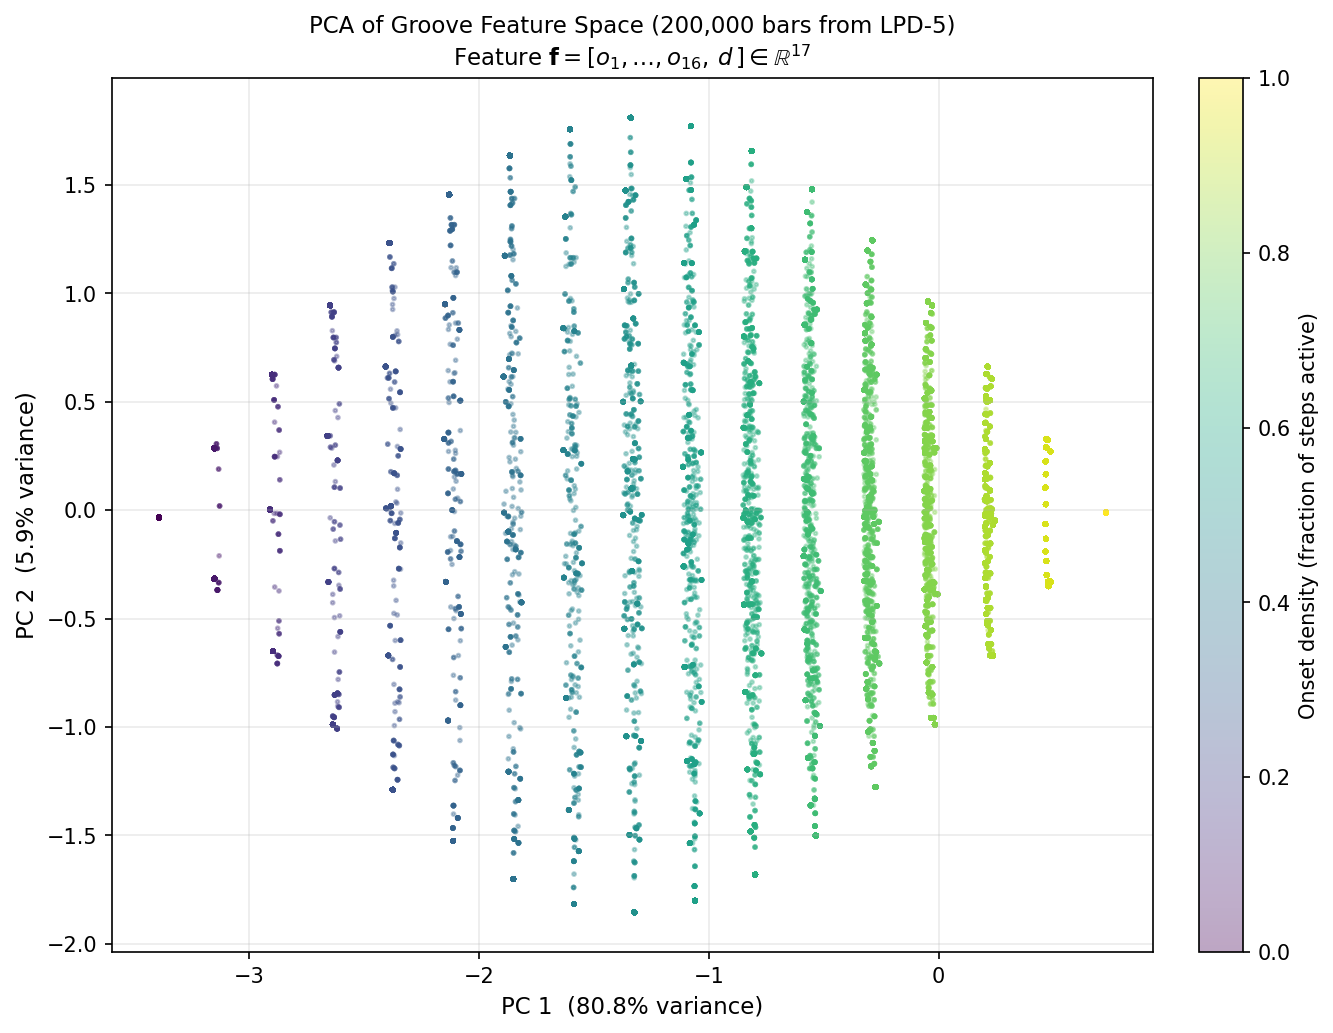
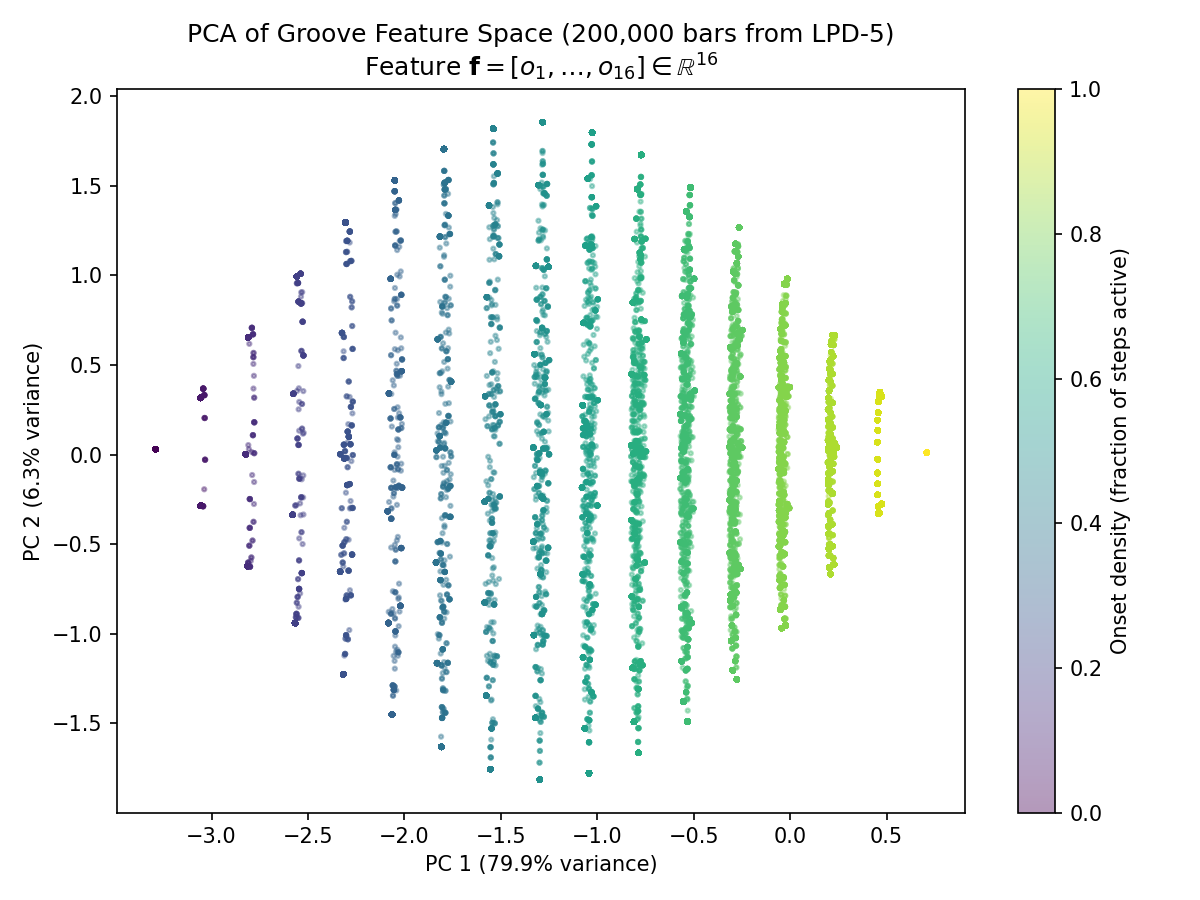
16-dim groove

diff --git a/data/lpd/pca_groove.py b/data/lpd/pca_groove.py
@@ -7,6 +7,7 @@ from data.lpd import storage as lpd_storage
 
 
 SAMPLE_SIZE = 200000
+SAVE_PATH = "report/figures/groove_pca.png"
 
 
 if __name__ == "__main__":
@@ -17,14 +18,16 @@ if __name__ == "__main__":
     # sklearn stores the fitted dataset here
     X = nn._fit_X
 
-    print("Original feature matrix:", X.shape)
+    print("Feature matrix:", X.shape)
 
     # --- random sampling ---
     if len(X) > SAMPLE_SIZE:
         idx = np.random.choice(len(X), SAMPLE_SIZE, replace=False)
         X = X[idx]
 
-    print("Sampled matrix:", X.shape)
+    print("Sampled:", X.shape)
+
+    density = X.mean(axis=1)
 
     # --- PCA ---
     pca = PCA(n_components=6)
@@ -32,7 +35,11 @@ if __name__ == "__main__":
 
     print("\nFirst 6 explained variances:")
     for i, v in enumerate(pca.explained_variance_ratio_):
-        print(f"PC{i+1}: {v:.6f}")
+        print(f"PC{i+1}: {v:.4f}  ({v*100:.1f}%)")
+
+    print("\nPC2 loadings (per onset position):")
+    for i, w in enumerate(pca.components_[1]):
+        print(f"  step {i:2d}: {w:+.4f}")
 
     # --- 2D Plot ---
     fig, ax = plt.subplots(figsize=(8, 6))
@@ -40,13 +47,17 @@ if __name__ == "__main__":
     scatter = ax.scatter(
         X_pca[:, 0],
         X_pca[:, 1],
+        c=density,
+        cmap="viridis",
         s=4,
         alpha=0.4
     )
+    plt.colorbar(scatter, ax=ax, label="Onset density (fraction of steps active)")
 
-    ax.set_xlabel("PC1")
-    ax.set_ylabel("PC2")
-    ax.set_title("2D PCA of Groove Feature Space")
+    ax.set_xlabel(f"PC 1 ({pca.explained_variance_ratio_[0]*100:.1f}% variance)")
+    ax.set_ylabel(f"PC 2 ({pca.explained_variance_ratio_[1]*100:.1f}% variance)")
+    ax.set_title(f"PCA of Groove Feature Space ({SAMPLE_SIZE:,} bars from LPD-5)\n"
+                 r"Feature $\mathbf{f} = [o_1, \ldots, o_{16}] \in \mathbb{R}^{16}$")
 
     # --- click annotation ---
     cursor = mplcursors.cursor(scatter, hover=False)
@@ -55,16 +66,10 @@ if __name__ == "__main__":
     def on_add(sel):
         i = sel.index
         vec = X[i]
-
-        # first 16 binary features
-        binary_indices = np.where(vec[:16] == 1)[0].tolist()
-
-        # 17th feature
-        d16 = vec[16]
-
-        text = f"{binary_indices} {d16:.3f}"
-
-        sel.annotation.set_text(text)
+        active = np.where(vec > 0)[0].tolist()
+        sel.annotation.set_text(f"{active}  d={density[i]:.3f}")
 
     plt.tight_layout()
+    plt.savefig(SAVE_PATH, dpi=150)
+    print(f"\nSaved to {SAVE_PATH}")
     plt.show()

diff --git a/data/lpd/extract.py b/data/lpd/extract.py
@@ -9,9 +9,7 @@ MAX_POLY = 8
 
 
 def get_groove(melody):
-    onsets = (melody != -1).astype(np.int8)
-    density = np.array([onsets.mean()], dtype=np.float32)
-    return np.concatenate([onsets, density])
+    return (melody != -1).astype(np.float32)
 
 
 def encode_polyphonic_fast(pr16, start, bar_steps, max_notes=8):

diff --git a/accompaniment/nn.py b/accompaniment/nn.py
@@ -8,7 +8,7 @@ def find_similar_loops(melody, top_k=10):
     Returns nearest neighbour indices + distances for the melody groove.
     """
     query = get_groove(melody)
-    assert len(query) == STEPS_PER_BAR + 1
+    assert len(query) == STEPS_PER_BAR
     dist, idx = NN.kneighbors(query.reshape(1, -1), n_neighbors=top_k)
     return idx[0], dist[0]
 

diff --git a/report/scripts/benchmark_latency.py b/report/scripts/benchmark_latency.py
@@ -212,7 +212,7 @@ if __name__ == "__main__":
     print_stats("pYIN transcription  @ 100 BPM (one beat = 600 ms audio)", s_pyin)
     print_stats("AR Transformer inference (32-beat context)",               s_ar)
     print_stats("CRF Viterbi inference (one bar)",                          s_crf)
-    print_stats("k-NN groove query (k=10, 17-dim)",                        s_knn)
+    print_stats("k-NN groove query (k=10, 16-dim)",                        s_knn)
     print_stats("Loop sampling (temperature softmax)",                      s_loop)
 
     e2e_ar  = compute_e2e(s_pyin, s_ar,  s_knn, s_loop)

diff --git a/README.md b/README.md
@@ -18,7 +18,7 @@ Predicts the most likely chord sequence based on the temporal relationship betwe
 
 ### 3. Rhythm/Symphony Generation
 Instead of simple block chords, the system generates dynamic, multi-instrument arrangements.
-- **Groove Retrieval**: Uses a **K-Nearest Neighbors (k-NN)** approach to match the current melody's rhythm (onset density and pattern) with a massive database of human-composed loops.
+- **Groove Retrieval**: Uses a **K-Nearest Neighbors (k-NN)** approach to match the current melody's 16-dimensional onset pattern with a massive database of human-composed loops.
 - **Tone & Harmony**: The retrieved patterns from the **LPD-5 (Lakh Pianoroll Dataset)** are "snapped" to the predicted chords in real-time.
 - **Synthesis**: High-quality audio rendering via **FluidSynth** using curated soundfonts for Drums, Bass, Piano, and Guitar.
 
@@ -39,7 +39,7 @@ Our chord estimation models are trained on a diverse corpus of lead sheets and l
 ### Rhythm/Symphony Maps
 The rhythm/symphony engine is powered by a pre-processed mapping of the **LPD-17 / LPD-5 (Lakh Pianoroll Dataset)**.
 - **Extraction**: `data/lpd/extract.py` processes thousands of MIDI files to build a searchable "groove" index.
-- **Storage**: The index lives in two files: `data/lpd/nn.joblib` (the shared k-NN model) and `data/lpd/loops.npz` (zlib-compressed `drums`/`piano`/`guitar`/`bass` arrays, row-aligned to the k-NN's fit data). All reads and writes go through `data/lpd/storage.py`, which exposes a small `load`/`dump` API keyed by instrument name.
+- **Storage**: The index lives in two files: `data/lpd/nn.joblib` (the shared k-NN model fitted on 16-dim onset features) and `data/lpd/loops.npz` (zlib-compressed `drums`/`piano`/`guitar`/`bass` arrays, row-aligned to the k-NN's fit data). All reads and writes go through `data/lpd/storage.py`, which exposes a small `load`/`dump` API keyed by instrument name.
 - **Mapping**: Each melody bar is mapped to its corresponding multi-track accompaniment (Drum, Piano, Guitar, Bass).
 
 ---